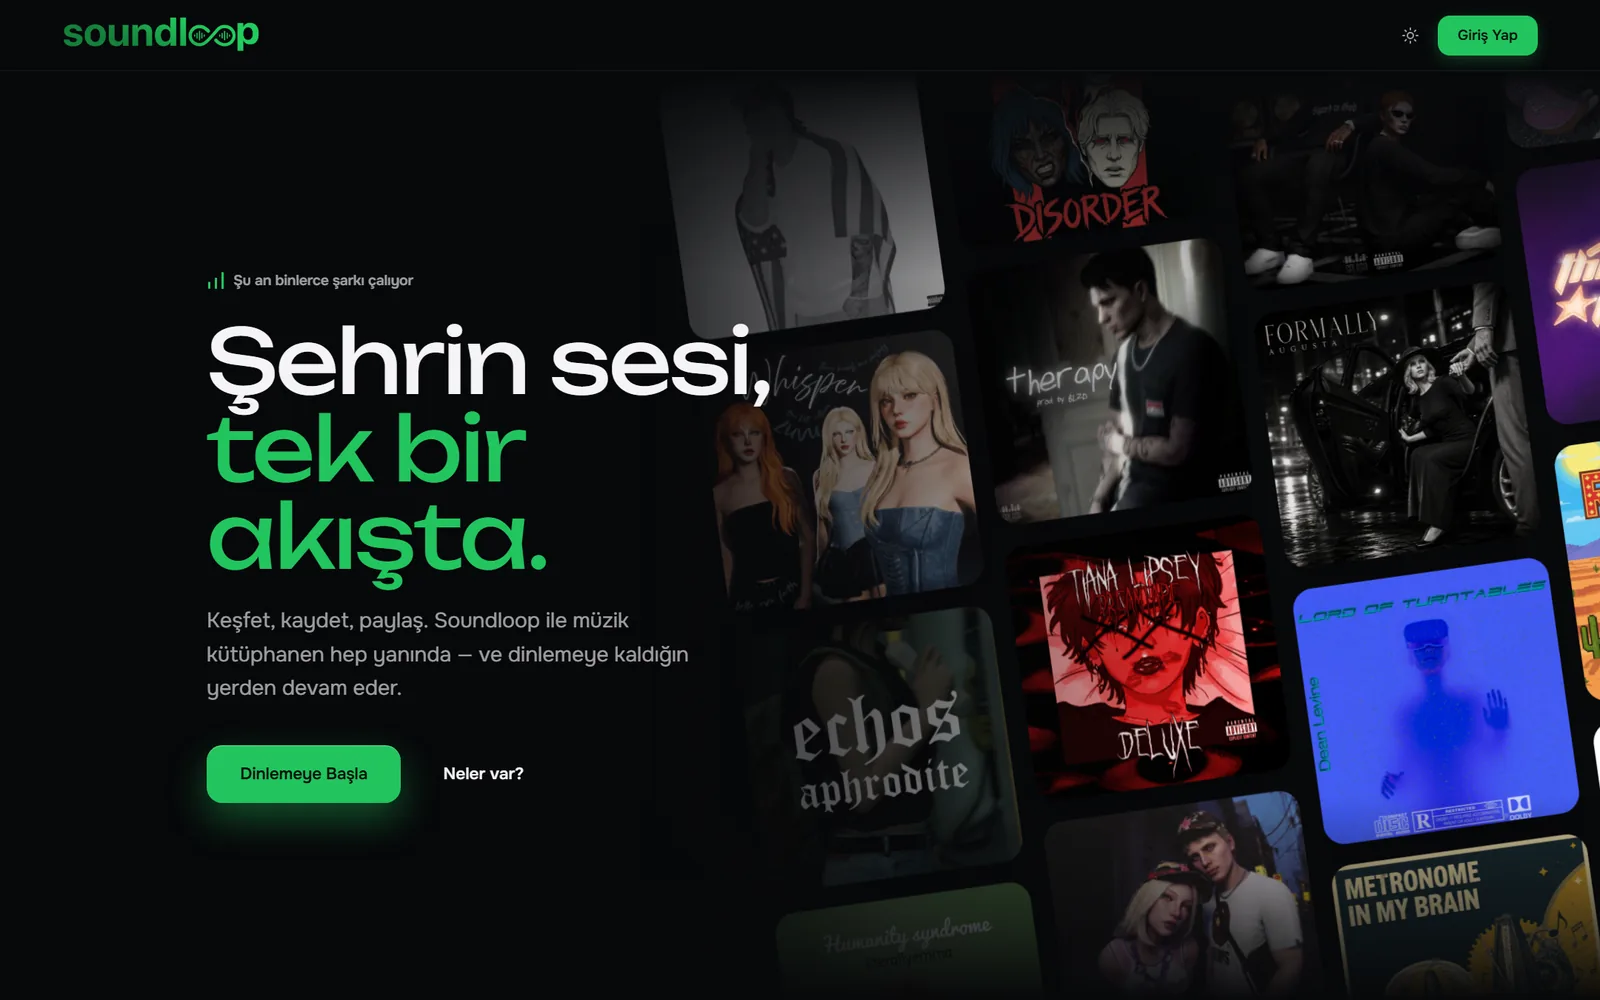
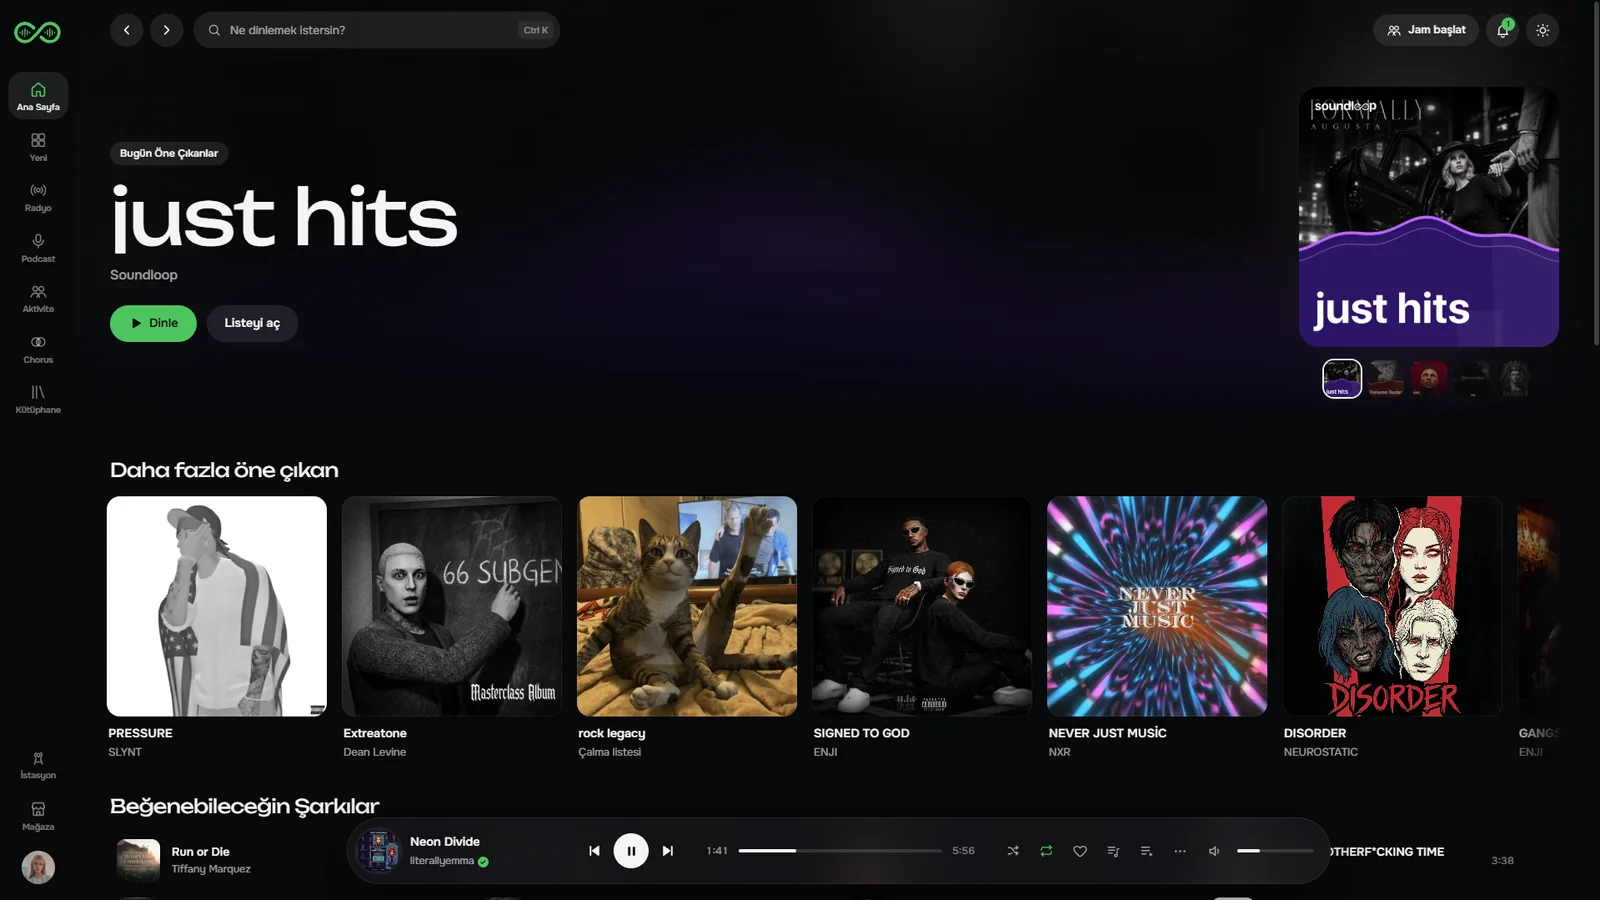
feat: drop four projects and refresh the soundloop, matchup, tools and vetric screenshots

diff --git a/src/data/projects.ts b/src/data/projects.ts
@@ -11,25 +11,21 @@ export interface Project {
 	mark?: string;
 }
 
-const shot = (id: string, height = 1000) => ({ src: `/images/shots/${id}.webp`, width: 1600, height });
+const shot = (id: string, height = 1000, width = 1600) => ({ src: `/images/shots/${id}.webp`, width, height });
 
 export const projects: Project[] = [
-	{ id: "wychwood", name: "Wychwood", url: "https://ucp.wychwood.world/", mark: "/images/marks/wychwood.png" },
-	{ id: "wasteland", name: "WASTELAND", url: "https://ucp.wastelandgta.me/", mark: "/images/marks/wasteland.png" },
-	{ id: "tools", name: "deniz's tools", url: "https://tools.deniz.cyou/", mark: "/images/marks/tree.png" },
+	{ id: "tools", name: "deniz's tools", url: "https://tools.deniz.cyou/", shot: shot("tools", 900) },
 	{ id: "azuki", name: "azuki", url: "https://azuki.deniz.cyou/", shot: shot("azuki") },
-	{ id: "matchup", name: "matchup", url: "https://matchup-tr.gta.world/", shot: shot("matchup") },
+	{ id: "matchup", name: "matchup", url: "https://matchup-tr.gta.world/", shot: shot("matchup", 757) },
 	{ id: "klutchr", name: "klutchr", url: "https://nood.deniz.cyou/", shot: shot("klutchr") },
 	{ id: "lschat", name: "ls chat", url: "https://chat-tr.gta.world/", shot: shot("lschat", 756) },
-	{ id: "mazebank", name: "Maze Bank Championship", url: "https://mazebankchampionship.pro/", shot: shot("mazebank") },
 	{ id: "sanmail", name: "sanmail", url: "https://mail-tr.gta.world/", shot: shot("sanmail", 756) },
 	{ id: "handshake", name: "handshake", url: "https://handshake.deniz.cyou/", shot: shot("handshake", 755) },
-	{ id: "deadhorizon", name: "Dead Horizon", mark: "/images/marks/deadhorizon.png" },
 	{ id: "ulsahub", name: "ulsahub", url: "https://ulsahub-tr.gta.world/", shot: shot("ulsahub") },
 	{ id: "cookie", name: "buy me a cookie", url: "https://buymeacookie.xyz/", shot: shot("cookie") },
-	{ id: "soundloop", name: "soundloop v2", url: "https://soundloop.app/", shot: shot("soundloop") },
+	{ id: "soundloop", name: "soundloop v2", url: "https://soundloop.app/", shot: shot("soundloop", 900) },
 	{ id: "capture", name: "Capture Assistant", url: "https://github.com/denizwp/captureassistant/releases", mark: "/images/marks/tree.png" },
-	{ id: "vetric", name: "vetric", url: "https://vetric.online/", shot: shot("vetric", 900) }
+	{ id: "vetric", name: "vetric", url: "https://vetric.online/", shot: shot("vetric", 698, 1568) }
 ];
 
 /** throws on a typo, so a missing card fails the build instead of leaving a hole in the grid */

diff --git a/src/pages/index.tsx b/src/pages/index.tsx
@@ -65,14 +65,14 @@ export default function Home({ at, discord, albums }: HomeProps) {
 				<Hero />
 				<ProjectCard project={project("soundloop")} wide />
 				<SpotifyCard at={at} />
-				<ProjectCard project={project("wychwood")} />
+				<ProjectCard project={project("capture")} />
 
 				<IstanbulCard at={at} />
 				<ProjectCard project={project("cookie")} wide />
 				<StintCard stint={work[1]} kind="Work" at={at} href="/now" />
 
 				<AlbumCard tile={albums[0]} priority />
-				<ProjectCard project={project("wasteland")} />
+				<MarkCard label="Tools · Everything Else" title="Figma" image="https://skillicons.dev/icons?theme=light&i=figma" tag="Design" tagColor="purple" href="/tools" />
 				<ProjectCard project={project("ulsahub")} wide />
 
 				<ProjectCard project={project("klutchr")} wide />
@@ -83,7 +83,7 @@ export default function Home({ at, discord, albums }: HomeProps) {
 				<MarkCard label="Tools · Everything Else" title="Blender" image="https://skillicons.dev/icons?theme=light&i=blender" tag="3D" tagColor="orange" href="/tools" />
 				<ProjectCard project={project("azuki")} wide />
 
-				<ProjectCard project={project("mazebank")} wide />
+				<ProjectCard project={project("matchup")} wide />
 				<StintCard stint={school[0]} kind="School" at={at} href="/now" />
 				<AlbumCard tile={albums[2]} />
 			</div>

diff --git a/src/styles/index.css b/src/styles/index.css
@@ -516,7 +516,8 @@ html[data-theme="dark"] .tag-stone { background: #2c2a29; border-color: #44403c;
 	width: 100%;
 	height: 100%;
 	object-fit: cover;
-	object-position: top;
+	/* wide screenshots lose their right side, so the app's logo and menu stay in the frame */
+	object-position: left top;
 }
 
 .is-link:hover .shot,
